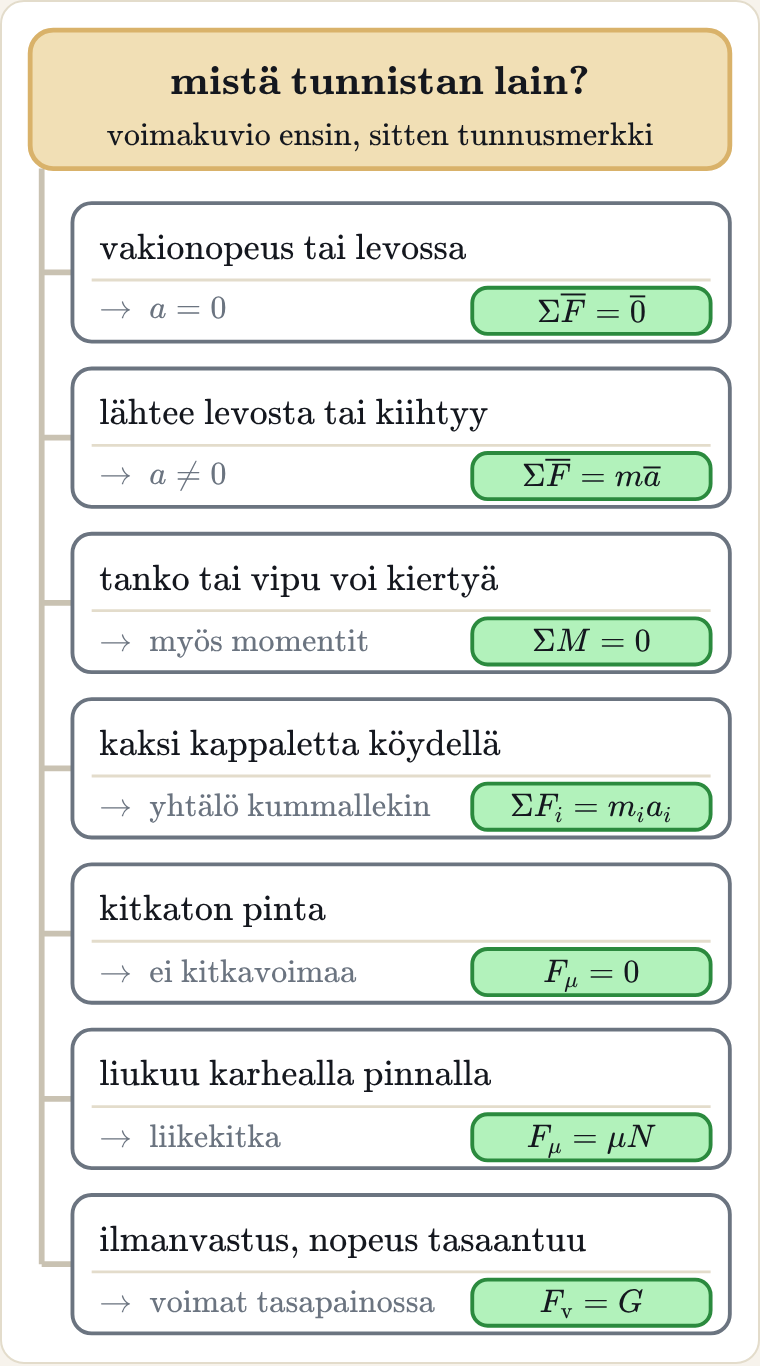
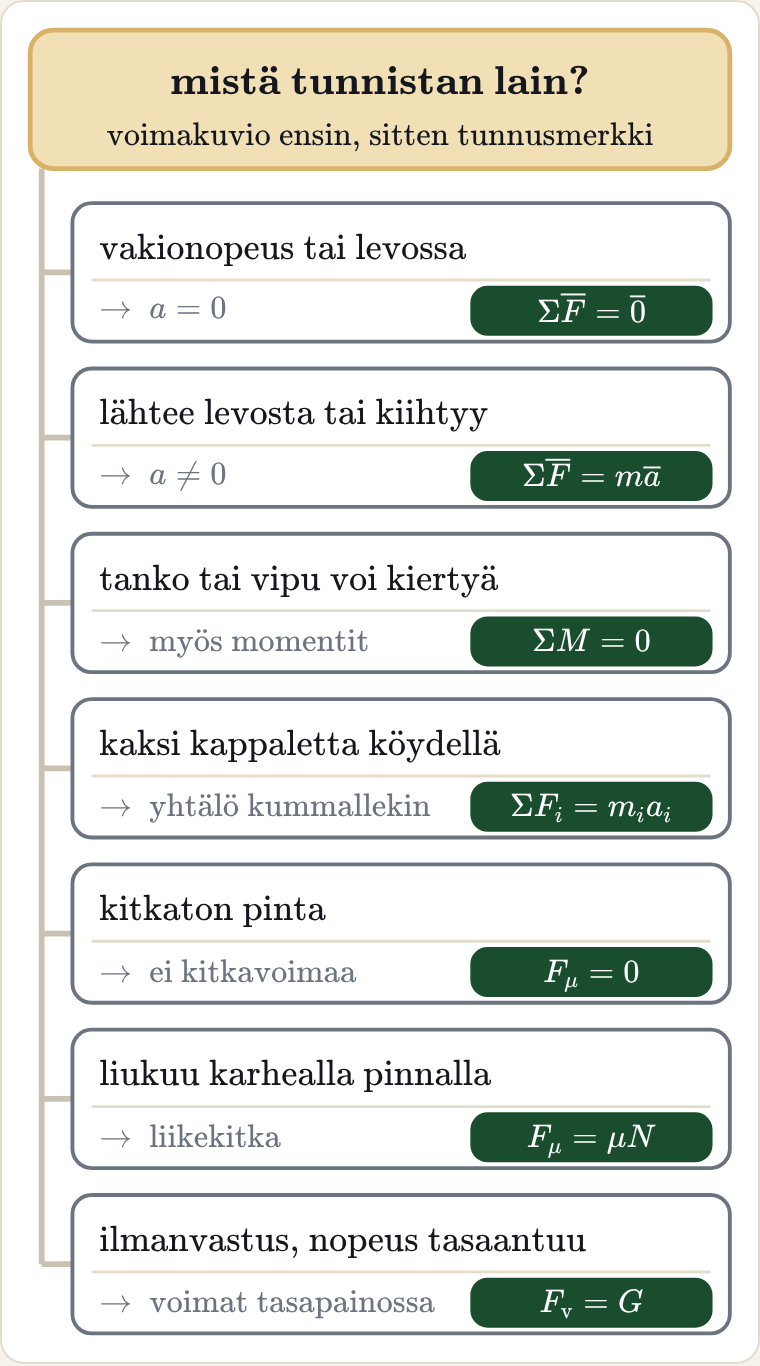
fy9-voimat tunnistuskaavio: lain merkki sivuston tummalla vihreällä (--accent), valkoinen teksti
Claude-Session: https://claude.ai/code/session_018S3zFxhGjNZ7QGsyLUYTSo

diff --git a/fysiikkalabra/lessons/units/fy9-voimat/figures.py b/fysiikkalabra/lessons/units/fy9-voimat/figures.py
@@ -18,6 +18,7 @@ import herolib as H
 
 figlib.set_language({}, ",")
 
+ACCENT = "#1a4d2e"                                        # the site's own dark green (site.css --accent, the buttons)
 WOOD, WOOD_DARK = "#d9b26a", "#a97a35"
 BOX, BOX_EDGE = SAND_LIGHT, WOOD_DARK
 
@@ -72,7 +73,7 @@ def hero():
 def kartta():
     """The recognition chart (teacher 2026-11-15, replaces the concept map): "Mistä tunnistan, mitä lakia käytän?". One
     card per sign in the task's own words (YO language): the sign on top, the choice it leads to and, as the result in a
-    green pill, the law or method; no list of formulas. Stacked for a phone: a spine down the left from the start box."""
+    pill in the site's dark green, the law or method; no list of formulas. Stacked for a phone: a spine down the left from the start box."""
     rows = [
         (r"\text{vakionopeus tai levossa}", r"\to\ a = 0", r"\Sigma\overline{F} = \overline{0}"),
         (r"\text{lähtee levosta tai kiihtyy}", r"\to\ a \neq 0", r"\Sigma\overline{F} = m\overline{a}"),
@@ -96,8 +97,8 @@ def kartta():
         f.tex(x0 + 14, y + 22, sign, "start", INK, size=19, w=x1 - x0 - 28)
         f.line(x0 + 10, y + 40, x1 - 10, y + 40, RULE_LIGHT, 1.5)
         f.tex(x0 + 14, y + 55, choice, "start", MUTED, size=17, w=170)
-        f.rect(x1 - 134, y + 44, 124, 24, GOOD_LIGHT, GOOD, 2, 8)
-        f.tex(x1 - 72, y + 56, law, "middle", INK, size=17, w=116)
+        f.rect(x1 - 134, y + 44, 124, 24, ACCENT, ACCENT, 2, 8)
+        f.tex(x1 - 72, y + 56, law, "middle", WHITE, size=17, w=116)
     return f.svg()
 
 

diff --git a/fysiikkalabra/content/fi-easy/units/fy9-voimat/unit.md b/fysiikkalabra/content/fi-easy/units/fy9-voimat/unit.md
@@ -161,50 +161,50 @@ Kokeessa voimakuviosta menee pisteitä, jos kuviosta puuttuu voima, siinä on yl
   <foreignObject x="44" y="108.5" width="314" height="23" overflow="visible"><div xmlns="http://www.w3.org/1999/xhtml" class="fig-tex" style="display:flex;align-items:center;justify-content:flex-start;height:100%;font-size:19px">$\text{vakionopeus tai levossa}$</div></foreignObject>
   <line x1="40" y1="138" x2="362" y2="138" stroke="#e3dccb" stroke-width="1.5" stroke-linecap="butt"/>
   <foreignObject x="44" y="143" width="170" height="20" overflow="visible"><div xmlns="http://www.w3.org/1999/xhtml" class="fig-tex" style="display:flex;align-items:center;justify-content:flex-start;height:100%;font-size:17px;color:#6b7480">$\to\ a = 0$</div></foreignObject>
-  <rect x="238" y="142" width="124" height="24" rx="8" fill="#b2f2bb" stroke="#2b8a3e" stroke-width="2"/>
-  <foreignObject x="242" y="144" width="116" height="20" overflow="visible"><div xmlns="http://www.w3.org/1999/xhtml" class="fig-tex" style="display:flex;align-items:center;justify-content:center;height:100%;font-size:17px">$\Sigma\overline{F} = \overline{0}$</div></foreignObject>
+  <rect x="238" y="142" width="124" height="24" rx="8" fill="#1a4d2e" stroke="#1a4d2e" stroke-width="2"/>
+  <foreignObject x="242" y="144" width="116" height="20" overflow="visible"><div xmlns="http://www.w3.org/1999/xhtml" class="fig-tex" style="display:flex;align-items:center;justify-content:center;height:100%;font-size:17px;color:#ffffff">$\Sigma\overline{F} = \overline{0}$</div></foreignObject>
   <line x1="14" y1="220" x2="30" y2="220" stroke="#c9c2b2" stroke-width="3" stroke-linecap="butt"/>
   <rect x="30" y="184" width="342" height="72" rx="10" fill="#ffffff" stroke="#6b7480" stroke-width="2"/>
   <foreignObject x="44" y="194.5" width="314" height="23" overflow="visible"><div xmlns="http://www.w3.org/1999/xhtml" class="fig-tex" style="display:flex;align-items:center;justify-content:flex-start;height:100%;font-size:19px">$\text{lähtee levosta tai kiihtyy}$</div></foreignObject>
   <line x1="40" y1="224" x2="362" y2="224" stroke="#e3dccb" stroke-width="1.5" stroke-linecap="butt"/>
   <foreignObject x="44" y="229" width="170" height="20" overflow="visible"><div xmlns="http://www.w3.org/1999/xhtml" class="fig-tex" style="display:flex;align-items:center;justify-content:flex-start;height:100%;font-size:17px;color:#6b7480">$\to\ a \neq 0$</div></foreignObject>
-  <rect x="238" y="228" width="124" height="24" rx="8" fill="#b2f2bb" stroke="#2b8a3e" stroke-width="2"/>
-  <foreignObject x="242" y="230" width="116" height="20" overflow="visible"><div xmlns="http://www.w3.org/1999/xhtml" class="fig-tex" style="display:flex;align-items:center;justify-content:center;height:100%;font-size:17px">$\Sigma\overline{F} = m\overline{a}$</div></foreignObject>
+  <rect x="238" y="228" width="124" height="24" rx="8" fill="#1a4d2e" stroke="#1a4d2e" stroke-width="2"/>
+  <foreignObject x="242" y="230" width="116" height="20" overflow="visible"><div xmlns="http://www.w3.org/1999/xhtml" class="fig-tex" style="display:flex;align-items:center;justify-content:center;height:100%;font-size:17px;color:#ffffff">$\Sigma\overline{F} = m\overline{a}$</div></foreignObject>
   <line x1="14" y1="306" x2="30" y2="306" stroke="#c9c2b2" stroke-width="3" stroke-linecap="butt"/>
   <rect x="30" y="270" width="342" height="72" rx="10" fill="#ffffff" stroke="#6b7480" stroke-width="2"/>
   <foreignObject x="44" y="280.5" width="314" height="23" overflow="visible"><div xmlns="http://www.w3.org/1999/xhtml" class="fig-tex" style="display:flex;align-items:center;justify-content:flex-start;height:100%;font-size:19px">$\text{tanko tai vipu voi kiertyä}$</div></foreignObject>
   <line x1="40" y1="310" x2="362" y2="310" stroke="#e3dccb" stroke-width="1.5" stroke-linecap="butt"/>
   <foreignObject x="44" y="315" width="170" height="20" overflow="visible"><div xmlns="http://www.w3.org/1999/xhtml" class="fig-tex" style="display:flex;align-items:center;justify-content:flex-start;height:100%;font-size:17px;color:#6b7480">$\to\ \text{myös momentit}$</div></foreignObject>
-  <rect x="238" y="314" width="124" height="24" rx="8" fill="#b2f2bb" stroke="#2b8a3e" stroke-width="2"/>
-  <foreignObject x="242" y="316" width="116" height="20" overflow="visible"><div xmlns="http://www.w3.org/1999/xhtml" class="fig-tex" style="display:flex;align-items:center;justify-content:center;height:100%;font-size:17px">$\Sigma M = 0$</div></foreignObject>
+  <rect x="238" y="314" width="124" height="24" rx="8" fill="#1a4d2e" stroke="#1a4d2e" stroke-width="2"/>
+  <foreignObject x="242" y="316" width="116" height="20" overflow="visible"><div xmlns="http://www.w3.org/1999/xhtml" class="fig-tex" style="display:flex;align-items:center;justify-content:center;height:100%;font-size:17px;color:#ffffff">$\Sigma M = 0$</div></foreignObject>
   <line x1="14" y1="392" x2="30" y2="392" stroke="#c9c2b2" stroke-width="3" stroke-linecap="butt"/>
   <rect x="30" y="356" width="342" height="72" rx="10" fill="#ffffff" stroke="#6b7480" stroke-width="2"/>
   <foreignObject x="44" y="366.5" width="314" height="23" overflow="visible"><div xmlns="http://www.w3.org/1999/xhtml" class="fig-tex" style="display:flex;align-items:center;justify-content:flex-start;height:100%;font-size:19px">$\text{kaksi kappaletta köydellä}$</div></foreignObject>
   <line x1="40" y1="396" x2="362" y2="396" stroke="#e3dccb" stroke-width="1.5" stroke-linecap="butt"/>
   <foreignObject x="44" y="401" width="170" height="20" overflow="visible"><div xmlns="http://www.w3.org/1999/xhtml" class="fig-tex" style="display:flex;align-items:center;justify-content:flex-start;height:100%;font-size:17px;color:#6b7480">$\to\ \text{yhtälö kummallekin}$</div></foreignObject>
-  <rect x="238" y="400" width="124" height="24" rx="8" fill="#b2f2bb" stroke="#2b8a3e" stroke-width="2"/>
-  <foreignObject x="242" y="402" width="116" height="20" overflow="visible"><div xmlns="http://www.w3.org/1999/xhtml" class="fig-tex" style="display:flex;align-items:center;justify-content:center;height:100%;font-size:17px">$\Sigma F_i = m_i a_i$</div></foreignObject>
+  <rect x="238" y="400" width="124" height="24" rx="8" fill="#1a4d2e" stroke="#1a4d2e" stroke-width="2"/>
+  <foreignObject x="242" y="402" width="116" height="20" overflow="visible"><div xmlns="http://www.w3.org/1999/xhtml" class="fig-tex" style="display:flex;align-items:center;justify-content:center;height:100%;font-size:17px;color:#ffffff">$\Sigma F_i = m_i a_i$</div></foreignObject>
   <line x1="14" y1="478" x2="30" y2="478" stroke="#c9c2b2" stroke-width="3" stroke-linecap="butt"/>
   <rect x="30" y="442" width="342" height="72" rx="10" fill="#ffffff" stroke="#6b7480" stroke-width="2"/>
   <foreignObject x="44" y="452.5" width="314" height="23" overflow="visible"><div xmlns="http://www.w3.org/1999/xhtml" class="fig-tex" style="display:flex;align-items:center;justify-content:flex-start;height:100%;font-size:19px">$\text{kitkaton pinta}$</div></foreignObject>
   <line x1="40" y1="482" x2="362" y2="482" stroke="#e3dccb" stroke-width="1.5" stroke-linecap="butt"/>
   <foreignObject x="44" y="487" width="170" height="20" overflow="visible"><div xmlns="http://www.w3.org/1999/xhtml" class="fig-tex" style="display:flex;align-items:center;justify-content:flex-start;height:100%;font-size:17px;color:#6b7480">$\to\ \text{ei kitkavoimaa}$</div></foreignObject>
-  <rect x="238" y="486" width="124" height="24" rx="8" fill="#b2f2bb" stroke="#2b8a3e" stroke-width="2"/>
-  <foreignObject x="242" y="488" width="116" height="20" overflow="visible"><div xmlns="http://www.w3.org/1999/xhtml" class="fig-tex" style="display:flex;align-items:center;justify-content:center;height:100%;font-size:17px">$F_\mu = 0$</div></foreignObject>
+  <rect x="238" y="486" width="124" height="24" rx="8" fill="#1a4d2e" stroke="#1a4d2e" stroke-width="2"/>
+  <foreignObject x="242" y="488" width="116" height="20" overflow="visible"><div xmlns="http://www.w3.org/1999/xhtml" class="fig-tex" style="display:flex;align-items:center;justify-content:center;height:100%;font-size:17px;color:#ffffff">$F_\mu = 0$</div></foreignObject>
   <line x1="14" y1="564" x2="30" y2="564" stroke="#c9c2b2" stroke-width="3" stroke-linecap="butt"/>
   <rect x="30" y="528" width="342" height="72" rx="10" fill="#ffffff" stroke="#6b7480" stroke-width="2"/>
   <foreignObject x="44" y="538.5" width="314" height="23" overflow="visible"><div xmlns="http://www.w3.org/1999/xhtml" class="fig-tex" style="display:flex;align-items:center;justify-content:flex-start;height:100%;font-size:19px">$\text{liukuu karhealla pinnalla}$</div></foreignObject>
   <line x1="40" y1="568" x2="362" y2="568" stroke="#e3dccb" stroke-width="1.5" stroke-linecap="butt"/>
   <foreignObject x="44" y="573" width="170" height="20" overflow="visible"><div xmlns="http://www.w3.org/1999/xhtml" class="fig-tex" style="display:flex;align-items:center;justify-content:flex-start;height:100%;font-size:17px;color:#6b7480">$\to\ \text{liikekitka}$</div></foreignObject>
-  <rect x="238" y="572" width="124" height="24" rx="8" fill="#b2f2bb" stroke="#2b8a3e" stroke-width="2"/>
-  <foreignObject x="242" y="574" width="116" height="20" overflow="visible"><div xmlns="http://www.w3.org/1999/xhtml" class="fig-tex" style="display:flex;align-items:center;justify-content:center;height:100%;font-size:17px">$F_\mu = \mu N$</div></foreignObject>
+  <rect x="238" y="572" width="124" height="24" rx="8" fill="#1a4d2e" stroke="#1a4d2e" stroke-width="2"/>
+  <foreignObject x="242" y="574" width="116" height="20" overflow="visible"><div xmlns="http://www.w3.org/1999/xhtml" class="fig-tex" style="display:flex;align-items:center;justify-content:center;height:100%;font-size:17px;color:#ffffff">$F_\mu = \mu N$</div></foreignObject>
   <line x1="14" y1="650" x2="30" y2="650" stroke="#c9c2b2" stroke-width="3" stroke-linecap="butt"/>
   <rect x="30" y="614" width="342" height="72" rx="10" fill="#ffffff" stroke="#6b7480" stroke-width="2"/>
   <foreignObject x="44" y="624.5" width="314" height="23" overflow="visible"><div xmlns="http://www.w3.org/1999/xhtml" class="fig-tex" style="display:flex;align-items:center;justify-content:flex-start;height:100%;font-size:19px">$\text{ilmanvastus, nopeus tasaantuu}$</div></foreignObject>
   <line x1="40" y1="654" x2="362" y2="654" stroke="#e3dccb" stroke-width="1.5" stroke-linecap="butt"/>
   <foreignObject x="44" y="659" width="170" height="20" overflow="visible"><div xmlns="http://www.w3.org/1999/xhtml" class="fig-tex" style="display:flex;align-items:center;justify-content:flex-start;height:100%;font-size:17px;color:#6b7480">$\to\ \text{voimat tasapainossa}$</div></foreignObject>
-  <rect x="238" y="658" width="124" height="24" rx="8" fill="#b2f2bb" stroke="#2b8a3e" stroke-width="2"/>
-  <foreignObject x="242" y="660" width="116" height="20" overflow="visible"><div xmlns="http://www.w3.org/1999/xhtml" class="fig-tex" style="display:flex;align-items:center;justify-content:center;height:100%;font-size:17px">$F_\text{v} = G$</div></foreignObject>
+  <rect x="238" y="658" width="124" height="24" rx="8" fill="#1a4d2e" stroke="#1a4d2e" stroke-width="2"/>
+  <foreignObject x="242" y="660" width="116" height="20" overflow="visible"><div xmlns="http://www.w3.org/1999/xhtml" class="fig-tex" style="display:flex;align-items:center;justify-content:center;height:100%;font-size:17px;color:#ffffff">$F_\text{v} = G$</div></foreignObject>
 </svg>
 
 Alun kysymys ratkeaa, kun valitaan kappale. Auto ja kärry vaikuttavat toisiinsa yhtä suurilla voimilla. Voimat vaikuttavat kuitenkin **eri kappaleisiin**. Siksi ne eivät kumoa toisiaan eli eivät poista toistensa vaikutusta. Kärryn liikkeen ratkaisevat vain ne voimat, jotka vaikuttavat kärryyn. Kun auto kiihdyttää, vetoaisa vetää kärryä eteenpäin enemmän kuin vierimisvastus jarruttaa sitä.

diff --git a/fysiikkalabra/content/en/units/fy9-voimat/unit.md b/fysiikkalabra/content/en/units/fy9-voimat/unit.md
@@ -153,50 +153,50 @@ Every task in this lesson is solved in the same way: **first the free-body diagr
   <foreignObject x="44" y="108.5" width="314" height="23" overflow="visible"><div xmlns="http://www.w3.org/1999/xhtml" class="fig-tex" style="display:flex;align-items:center;justify-content:flex-start;height:100%;font-size:19px">$\text{constant velocity or at rest}$</div></foreignObject>
   <line x1="40" y1="138" x2="362" y2="138" stroke="#e3dccb" stroke-width="1.5" stroke-linecap="butt"/>
   <foreignObject x="44" y="143" width="170" height="20" overflow="visible"><div xmlns="http://www.w3.org/1999/xhtml" class="fig-tex" style="display:flex;align-items:center;justify-content:flex-start;height:100%;font-size:17px;color:#6b7480">$\to\ a = 0$</div></foreignObject>
-  <rect x="238" y="142" width="124" height="24" rx="8" fill="#b2f2bb" stroke="#2b8a3e" stroke-width="2"/>
-  <foreignObject x="242" y="144" width="116" height="20" overflow="visible"><div xmlns="http://www.w3.org/1999/xhtml" class="fig-tex" style="display:flex;align-items:center;justify-content:center;height:100%;font-size:17px">$\Sigma\overline{F} = \overline{0}$</div></foreignObject>
+  <rect x="238" y="142" width="124" height="24" rx="8" fill="#1a4d2e" stroke="#1a4d2e" stroke-width="2"/>
+  <foreignObject x="242" y="144" width="116" height="20" overflow="visible"><div xmlns="http://www.w3.org/1999/xhtml" class="fig-tex" style="display:flex;align-items:center;justify-content:center;height:100%;font-size:17px;color:#ffffff">$\Sigma\overline{F} = \overline{0}$</div></foreignObject>
   <line x1="14" y1="220" x2="30" y2="220" stroke="#c9c2b2" stroke-width="3" stroke-linecap="butt"/>
   <rect x="30" y="184" width="342" height="72" rx="10" fill="#ffffff" stroke="#6b7480" stroke-width="2"/>
   <foreignObject x="44" y="194.5" width="314" height="23" overflow="visible"><div xmlns="http://www.w3.org/1999/xhtml" class="fig-tex" style="display:flex;align-items:center;justify-content:flex-start;height:100%;font-size:19px">$\text{starts from rest or speeds up}$</div></foreignObject>
   <line x1="40" y1="224" x2="362" y2="224" stroke="#e3dccb" stroke-width="1.5" stroke-linecap="butt"/>
   <foreignObject x="44" y="229" width="170" height="20" overflow="visible"><div xmlns="http://www.w3.org/1999/xhtml" class="fig-tex" style="display:flex;align-items:center;justify-content:flex-start;height:100%;font-size:17px;color:#6b7480">$\to\ a \neq 0$</div></foreignObject>
-  <rect x="238" y="228" width="124" height="24" rx="8" fill="#b2f2bb" stroke="#2b8a3e" stroke-width="2"/>
-  <foreignObject x="242" y="230" width="116" height="20" overflow="visible"><div xmlns="http://www.w3.org/1999/xhtml" class="fig-tex" style="display:flex;align-items:center;justify-content:center;height:100%;font-size:17px">$\Sigma\overline{F} = m\overline{a}$</div></foreignObject>
+  <rect x="238" y="228" width="124" height="24" rx="8" fill="#1a4d2e" stroke="#1a4d2e" stroke-width="2"/>
+  <foreignObject x="242" y="230" width="116" height="20" overflow="visible"><div xmlns="http://www.w3.org/1999/xhtml" class="fig-tex" style="display:flex;align-items:center;justify-content:center;height:100%;font-size:17px;color:#ffffff">$\Sigma\overline{F} = m\overline{a}$</div></foreignObject>
   <line x1="14" y1="306" x2="30" y2="306" stroke="#c9c2b2" stroke-width="3" stroke-linecap="butt"/>
   <rect x="30" y="270" width="342" height="72" rx="10" fill="#ffffff" stroke="#6b7480" stroke-width="2"/>
   <foreignObject x="44" y="280.5" width="314" height="23" overflow="visible"><div xmlns="http://www.w3.org/1999/xhtml" class="fig-tex" style="display:flex;align-items:center;justify-content:flex-start;height:100%;font-size:19px">$\text{a rod or lever can rotate}$</div></foreignObject>
   <line x1="40" y1="310" x2="362" y2="310" stroke="#e3dccb" stroke-width="1.5" stroke-linecap="butt"/>
   <foreignObject x="44" y="315" width="170" height="20" overflow="visible"><div xmlns="http://www.w3.org/1999/xhtml" class="fig-tex" style="display:flex;align-items:center;justify-content:flex-start;height:100%;font-size:17px;color:#6b7480">$\to\ \text{moments too}$</div></foreignObject>
-  <rect x="238" y="314" width="124" height="24" rx="8" fill="#b2f2bb" stroke="#2b8a3e" stroke-width="2"/>
-  <foreignObject x="242" y="316" width="116" height="20" overflow="visible"><div xmlns="http://www.w3.org/1999/xhtml" class="fig-tex" style="display:flex;align-items:center;justify-content:center;height:100%;font-size:17px">$\Sigma M = 0$</div></foreignObject>
+  <rect x="238" y="314" width="124" height="24" rx="8" fill="#1a4d2e" stroke="#1a4d2e" stroke-width="2"/>
+  <foreignObject x="242" y="316" width="116" height="20" overflow="visible"><div xmlns="http://www.w3.org/1999/xhtml" class="fig-tex" style="display:flex;align-items:center;justify-content:center;height:100%;font-size:17px;color:#ffffff">$\Sigma M = 0$</div></foreignObject>
   <line x1="14" y1="392" x2="30" y2="392" stroke="#c9c2b2" stroke-width="3" stroke-linecap="butt"/>
   <rect x="30" y="356" width="342" height="72" rx="10" fill="#ffffff" stroke="#6b7480" stroke-width="2"/>
   <foreignObject x="44" y="366.5" width="314" height="23" overflow="visible"><div xmlns="http://www.w3.org/1999/xhtml" class="fig-tex" style="display:flex;align-items:center;justify-content:flex-start;height:100%;font-size:19px">$\text{two bodies on a rope}$</div></foreignObject>
   <line x1="40" y1="396" x2="362" y2="396" stroke="#e3dccb" stroke-width="1.5" stroke-linecap="butt"/>
   <foreignObject x="44" y="401" width="170" height="20" overflow="visible"><div xmlns="http://www.w3.org/1999/xhtml" class="fig-tex" style="display:flex;align-items:center;justify-content:flex-start;height:100%;font-size:17px;color:#6b7480">$\to\ \text{an equation each}$</div></foreignObject>
-  <rect x="238" y="400" width="124" height="24" rx="8" fill="#b2f2bb" stroke="#2b8a3e" stroke-width="2"/>
-  <foreignObject x="242" y="402" width="116" height="20" overflow="visible"><div xmlns="http://www.w3.org/1999/xhtml" class="fig-tex" style="display:flex;align-items:center;justify-content:center;height:100%;font-size:17px">$\Sigma F_i = m_i a_i$</div></foreignObject>
+  <rect x="238" y="400" width="124" height="24" rx="8" fill="#1a4d2e" stroke="#1a4d2e" stroke-width="2"/>
+  <foreignObject x="242" y="402" width="116" height="20" overflow="visible"><div xmlns="http://www.w3.org/1999/xhtml" class="fig-tex" style="display:flex;align-items:center;justify-content:center;height:100%;font-size:17px;color:#ffffff">$\Sigma F_i = m_i a_i$</div></foreignObject>
   <line x1="14" y1="478" x2="30" y2="478" stroke="#c9c2b2" stroke-width="3" stroke-linecap="butt"/>
   <rect x="30" y="442" width="342" height="72" rx="10" fill="#ffffff" stroke="#6b7480" stroke-width="2"/>
   <foreignObject x="44" y="452.5" width="314" height="23" overflow="visible"><div xmlns="http://www.w3.org/1999/xhtml" class="fig-tex" style="display:flex;align-items:center;justify-content:flex-start;height:100%;font-size:19px">$\text{frictionless surface}$</div></foreignObject>
   <line x1="40" y1="482" x2="362" y2="482" stroke="#e3dccb" stroke-width="1.5" stroke-linecap="butt"/>
   <foreignObject x="44" y="487" width="170" height="20" overflow="visible"><div xmlns="http://www.w3.org/1999/xhtml" class="fig-tex" style="display:flex;align-items:center;justify-content:flex-start;height:100%;font-size:17px;color:#6b7480">$\to\ \text{no friction force}$</div></foreignObject>
-  <rect x="238" y="486" width="124" height="24" rx="8" fill="#b2f2bb" stroke="#2b8a3e" stroke-width="2"/>
-  <foreignObject x="242" y="488" width="116" height="20" overflow="visible"><div xmlns="http://www.w3.org/1999/xhtml" class="fig-tex" style="display:flex;align-items:center;justify-content:center;height:100%;font-size:17px">$F_\mu = 0$</div></foreignObject>
+  <rect x="238" y="486" width="124" height="24" rx="8" fill="#1a4d2e" stroke="#1a4d2e" stroke-width="2"/>
+  <foreignObject x="242" y="488" width="116" height="20" overflow="visible"><div xmlns="http://www.w3.org/1999/xhtml" class="fig-tex" style="display:flex;align-items:center;justify-content:center;height:100%;font-size:17px;color:#ffffff">$F_\mu = 0$</div></foreignObject>
   <line x1="14" y1="564" x2="30" y2="564" stroke="#c9c2b2" stroke-width="3" stroke-linecap="butt"/>
   <rect x="30" y="528" width="342" height="72" rx="10" fill="#ffffff" stroke="#6b7480" stroke-width="2"/>
   <foreignObject x="44" y="538.5" width="314" height="23" overflow="visible"><div xmlns="http://www.w3.org/1999/xhtml" class="fig-tex" style="display:flex;align-items:center;justify-content:flex-start;height:100%;font-size:19px">$\text{slides on a rough surface}$</div></foreignObject>
   <line x1="40" y1="568" x2="362" y2="568" stroke="#e3dccb" stroke-width="1.5" stroke-linecap="butt"/>
   <foreignObject x="44" y="573" width="170" height="20" overflow="visible"><div xmlns="http://www.w3.org/1999/xhtml" class="fig-tex" style="display:flex;align-items:center;justify-content:flex-start;height:100%;font-size:17px;color:#6b7480">$\to\ \text{kinetic friction}$</div></foreignObject>
-  <rect x="238" y="572" width="124" height="24" rx="8" fill="#b2f2bb" stroke="#2b8a3e" stroke-width="2"/>
-  <foreignObject x="242" y="574" width="116" height="20" overflow="visible"><div xmlns="http://www.w3.org/1999/xhtml" class="fig-tex" style="display:flex;align-items:center;justify-content:center;height:100%;font-size:17px">$F_\mu = \mu N$</div></foreignObject>
+  <rect x="238" y="572" width="124" height="24" rx="8" fill="#1a4d2e" stroke="#1a4d2e" stroke-width="2"/>
+  <foreignObject x="242" y="574" width="116" height="20" overflow="visible"><div xmlns="http://www.w3.org/1999/xhtml" class="fig-tex" style="display:flex;align-items:center;justify-content:center;height:100%;font-size:17px;color:#ffffff">$F_\mu = \mu N$</div></foreignObject>
   <line x1="14" y1="650" x2="30" y2="650" stroke="#c9c2b2" stroke-width="3" stroke-linecap="butt"/>
   <rect x="30" y="614" width="342" height="72" rx="10" fill="#ffffff" stroke="#6b7480" stroke-width="2"/>
   <foreignObject x="44" y="624.5" width="314" height="23" overflow="visible"><div xmlns="http://www.w3.org/1999/xhtml" class="fig-tex" style="display:flex;align-items:center;justify-content:flex-start;height:100%;font-size:19px">$\text{air resistance, speed levels off}$</div></foreignObject>
   <line x1="40" y1="654" x2="362" y2="654" stroke="#e3dccb" stroke-width="1.5" stroke-linecap="butt"/>
   <foreignObject x="44" y="659" width="170" height="20" overflow="visible"><div xmlns="http://www.w3.org/1999/xhtml" class="fig-tex" style="display:flex;align-items:center;justify-content:flex-start;height:100%;font-size:17px;color:#6b7480">$\to\ \text{forces balance}$</div></foreignObject>
-  <rect x="238" y="658" width="124" height="24" rx="8" fill="#b2f2bb" stroke="#2b8a3e" stroke-width="2"/>
-  <foreignObject x="242" y="660" width="116" height="20" overflow="visible"><div xmlns="http://www.w3.org/1999/xhtml" class="fig-tex" style="display:flex;align-items:center;justify-content:center;height:100%;font-size:17px">$F_\text{v} = G$</div></foreignObject>
+  <rect x="238" y="658" width="124" height="24" rx="8" fill="#1a4d2e" stroke="#1a4d2e" stroke-width="2"/>
+  <foreignObject x="242" y="660" width="116" height="20" overflow="visible"><div xmlns="http://www.w3.org/1999/xhtml" class="fig-tex" style="display:flex;align-items:center;justify-content:center;height:100%;font-size:17px;color:#ffffff">$F_\text{v} = G$</div></foreignObject>
 </svg>
 
 The opening question is settled by the choice of object. The car and the trailer act on each other with equal forces, but the forces act on **different objects**, so they do not cancel each other. The motion of the trailer is decided only by the forces acting on the trailer: while accelerating, the drawbar pulls it forwards more than the rolling resistance holds it back.

diff --git a/fysiikkalabra/content/fi/units/fy9-voimat/unit.md b/fysiikkalabra/content/fi/units/fy9-voimat/unit.md
@@ -153,50 +153,50 @@ Kaikki tämän tunnin tehtävät ratkaistaan samalla tavalla: **ensin voimakuvio
   <foreignObject x="44" y="108.5" width="314" height="23" overflow="visible"><div xmlns="http://www.w3.org/1999/xhtml" class="fig-tex" style="display:flex;align-items:center;justify-content:flex-start;height:100%;font-size:19px">$\text{vakionopeus tai levossa}$</div></foreignObject>
   <line x1="40" y1="138" x2="362" y2="138" stroke="#e3dccb" stroke-width="1.5" stroke-linecap="butt"/>
   <foreignObject x="44" y="143" width="170" height="20" overflow="visible"><div xmlns="http://www.w3.org/1999/xhtml" class="fig-tex" style="display:flex;align-items:center;justify-content:flex-start;height:100%;font-size:17px;color:#6b7480">$\to\ a = 0$</div></foreignObject>
-  <rect x="238" y="142" width="124" height="24" rx="8" fill="#b2f2bb" stroke="#2b8a3e" stroke-width="2"/>
-  <foreignObject x="242" y="144" width="116" height="20" overflow="visible"><div xmlns="http://www.w3.org/1999/xhtml" class="fig-tex" style="display:flex;align-items:center;justify-content:center;height:100%;font-size:17px">$\Sigma\overline{F} = \overline{0}$</div></foreignObject>
+  <rect x="238" y="142" width="124" height="24" rx="8" fill="#1a4d2e" stroke="#1a4d2e" stroke-width="2"/>
+  <foreignObject x="242" y="144" width="116" height="20" overflow="visible"><div xmlns="http://www.w3.org/1999/xhtml" class="fig-tex" style="display:flex;align-items:center;justify-content:center;height:100%;font-size:17px;color:#ffffff">$\Sigma\overline{F} = \overline{0}$</div></foreignObject>
   <line x1="14" y1="220" x2="30" y2="220" stroke="#c9c2b2" stroke-width="3" stroke-linecap="butt"/>
   <rect x="30" y="184" width="342" height="72" rx="10" fill="#ffffff" stroke="#6b7480" stroke-width="2"/>
   <foreignObject x="44" y="194.5" width="314" height="23" overflow="visible"><div xmlns="http://www.w3.org/1999/xhtml" class="fig-tex" style="display:flex;align-items:center;justify-content:flex-start;height:100%;font-size:19px">$\text{lähtee levosta tai kiihtyy}$</div></foreignObject>
   <line x1="40" y1="224" x2="362" y2="224" stroke="#e3dccb" stroke-width="1.5" stroke-linecap="butt"/>
   <foreignObject x="44" y="229" width="170" height="20" overflow="visible"><div xmlns="http://www.w3.org/1999/xhtml" class="fig-tex" style="display:flex;align-items:center;justify-content:flex-start;height:100%;font-size:17px;color:#6b7480">$\to\ a \neq 0$</div></foreignObject>
-  <rect x="238" y="228" width="124" height="24" rx="8" fill="#b2f2bb" stroke="#2b8a3e" stroke-width="2"/>
-  <foreignObject x="242" y="230" width="116" height="20" overflow="visible"><div xmlns="http://www.w3.org/1999/xhtml" class="fig-tex" style="display:flex;align-items:center;justify-content:center;height:100%;font-size:17px">$\Sigma\overline{F} = m\overline{a}$</div></foreignObject>
+  <rect x="238" y="228" width="124" height="24" rx="8" fill="#1a4d2e" stroke="#1a4d2e" stroke-width="2"/>
+  <foreignObject x="242" y="230" width="116" height="20" overflow="visible"><div xmlns="http://www.w3.org/1999/xhtml" class="fig-tex" style="display:flex;align-items:center;justify-content:center;height:100%;font-size:17px;color:#ffffff">$\Sigma\overline{F} = m\overline{a}$</div></foreignObject>
   <line x1="14" y1="306" x2="30" y2="306" stroke="#c9c2b2" stroke-width="3" stroke-linecap="butt"/>
   <rect x="30" y="270" width="342" height="72" rx="10" fill="#ffffff" stroke="#6b7480" stroke-width="2"/>
   <foreignObject x="44" y="280.5" width="314" height="23" overflow="visible"><div xmlns="http://www.w3.org/1999/xhtml" class="fig-tex" style="display:flex;align-items:center;justify-content:flex-start;height:100%;font-size:19px">$\text{tanko tai vipu voi kiertyä}$</div></foreignObject>
   <line x1="40" y1="310" x2="362" y2="310" stroke="#e3dccb" stroke-width="1.5" stroke-linecap="butt"/>
   <foreignObject x="44" y="315" width="170" height="20" overflow="visible"><div xmlns="http://www.w3.org/1999/xhtml" class="fig-tex" style="display:flex;align-items:center;justify-content:flex-start;height:100%;font-size:17px;color:#6b7480">$\to\ \text{myös momentit}$</div></foreignObject>
-  <rect x="238" y="314" width="124" height="24" rx="8" fill="#b2f2bb" stroke="#2b8a3e" stroke-width="2"/>
-  <foreignObject x="242" y="316" width="116" height="20" overflow="visible"><div xmlns="http://www.w3.org/1999/xhtml" class="fig-tex" style="display:flex;align-items:center;justify-content:center;height:100%;font-size:17px">$\Sigma M = 0$</div></foreignObject>
+  <rect x="238" y="314" width="124" height="24" rx="8" fill="#1a4d2e" stroke="#1a4d2e" stroke-width="2"/>
+  <foreignObject x="242" y="316" width="116" height="20" overflow="visible"><div xmlns="http://www.w3.org/1999/xhtml" class="fig-tex" style="display:flex;align-items:center;justify-content:center;height:100%;font-size:17px;color:#ffffff">$\Sigma M = 0$</div></foreignObject>
   <line x1="14" y1="392" x2="30" y2="392" stroke="#c9c2b2" stroke-width="3" stroke-linecap="butt"/>
   <rect x="30" y="356" width="342" height="72" rx="10" fill="#ffffff" stroke="#6b7480" stroke-width="2"/>
   <foreignObject x="44" y="366.5" width="314" height="23" overflow="visible"><div xmlns="http://www.w3.org/1999/xhtml" class="fig-tex" style="display:flex;align-items:center;justify-content:flex-start;height:100%;font-size:19px">$\text{kaksi kappaletta köydellä}$</div></foreignObject>
   <line x1="40" y1="396" x2="362" y2="396" stroke="#e3dccb" stroke-width="1.5" stroke-linecap="butt"/>
   <foreignObject x="44" y="401" width="170" height="20" overflow="visible"><div xmlns="http://www.w3.org/1999/xhtml" class="fig-tex" style="display:flex;align-items:center;justify-content:flex-start;height:100%;font-size:17px;color:#6b7480">$\to\ \text{yhtälö kummallekin}$</div></foreignObject>
-  <rect x="238" y="400" width="124" height="24" rx="8" fill="#b2f2bb" stroke="#2b8a3e" stroke-width="2"/>
-  <foreignObject x="242" y="402" width="116" height="20" overflow="visible"><div xmlns="http://www.w3.org/1999/xhtml" class="fig-tex" style="display:flex;align-items:center;justify-content:center;height:100%;font-size:17px">$\Sigma F_i = m_i a_i$</div></foreignObject>
+  <rect x="238" y="400" width="124" height="24" rx="8" fill="#1a4d2e" stroke="#1a4d2e" stroke-width="2"/>
+  <foreignObject x="242" y="402" width="116" height="20" overflow="visible"><div xmlns="http://www.w3.org/1999/xhtml" class="fig-tex" style="display:flex;align-items:center;justify-content:center;height:100%;font-size:17px;color:#ffffff">$\Sigma F_i = m_i a_i$</div></foreignObject>
   <line x1="14" y1="478" x2="30" y2="478" stroke="#c9c2b2" stroke-width="3" stroke-linecap="butt"/>
   <rect x="30" y="442" width="342" height="72" rx="10" fill="#ffffff" stroke="#6b7480" stroke-width="2"/>
   <foreignObject x="44" y="452.5" width="314" height="23" overflow="visible"><div xmlns="http://www.w3.org/1999/xhtml" class="fig-tex" style="display:flex;align-items:center;justify-content:flex-start;height:100%;font-size:19px">$\text{kitkaton pinta}$</div></foreignObject>
   <line x1="40" y1="482" x2="362" y2="482" stroke="#e3dccb" stroke-width="1.5" stroke-linecap="butt"/>
   <foreignObject x="44" y="487" width="170" height="20" overflow="visible"><div xmlns="http://www.w3.org/1999/xhtml" class="fig-tex" style="display:flex;align-items:center;justify-content:flex-start;height:100%;font-size:17px;color:#6b7480">$\to\ \text{ei kitkavoimaa}$</div></foreignObject>
-  <rect x="238" y="486" width="124" height="24" rx="8" fill="#b2f2bb" stroke="#2b8a3e" stroke-width="2"/>
-  <foreignObject x="242" y="488" width="116" height="20" overflow="visible"><div xmlns="http://www.w3.org/1999/xhtml" class="fig-tex" style="display:flex;align-items:center;justify-content:center;height:100%;font-size:17px">$F_\mu = 0$</div></foreignObject>
+  <rect x="238" y="486" width="124" height="24" rx="8" fill="#1a4d2e" stroke="#1a4d2e" stroke-width="2"/>
+  <foreignObject x="242" y="488" width="116" height="20" overflow="visible"><div xmlns="http://www.w3.org/1999/xhtml" class="fig-tex" style="display:flex;align-items:center;justify-content:center;height:100%;font-size:17px;color:#ffffff">$F_\mu = 0$</div></foreignObject>
   <line x1="14" y1="564" x2="30" y2="564" stroke="#c9c2b2" stroke-width="3" stroke-linecap="butt"/>
   <rect x="30" y="528" width="342" height="72" rx="10" fill="#ffffff" stroke="#6b7480" stroke-width="2"/>
   <foreignObject x="44" y="538.5" width="314" height="23" overflow="visible"><div xmlns="http://www.w3.org/1999/xhtml" class="fig-tex" style="display:flex;align-items:center;justify-content:flex-start;height:100%;font-size:19px">$\text{liukuu karhealla pinnalla}$</div></foreignObject>
   <line x1="40" y1="568" x2="362" y2="568" stroke="#e3dccb" stroke-width="1.5" stroke-linecap="butt"/>
   <foreignObject x="44" y="573" width="170" height="20" overflow="visible"><div xmlns="http://www.w3.org/1999/xhtml" class="fig-tex" style="display:flex;align-items:center;justify-content:flex-start;height:100%;font-size:17px;color:#6b7480">$\to\ \text{liikekitka}$</div></foreignObject>
-  <rect x="238" y="572" width="124" height="24" rx="8" fill="#b2f2bb" stroke="#2b8a3e" stroke-width="2"/>
-  <foreignObject x="242" y="574" width="116" height="20" overflow="visible"><div xmlns="http://www.w3.org/1999/xhtml" class="fig-tex" style="display:flex;align-items:center;justify-content:center;height:100%;font-size:17px">$F_\mu = \mu N$</div></foreignObject>
+  <rect x="238" y="572" width="124" height="24" rx="8" fill="#1a4d2e" stroke="#1a4d2e" stroke-width="2"/>
+  <foreignObject x="242" y="574" width="116" height="20" overflow="visible"><div xmlns="http://www.w3.org/1999/xhtml" class="fig-tex" style="display:flex;align-items:center;justify-content:center;height:100%;font-size:17px;color:#ffffff">$F_\mu = \mu N$</div></foreignObject>
   <line x1="14" y1="650" x2="30" y2="650" stroke="#c9c2b2" stroke-width="3" stroke-linecap="butt"/>
   <rect x="30" y="614" width="342" height="72" rx="10" fill="#ffffff" stroke="#6b7480" stroke-width="2"/>
   <foreignObject x="44" y="624.5" width="314" height="23" overflow="visible"><div xmlns="http://www.w3.org/1999/xhtml" class="fig-tex" style="display:flex;align-items:center;justify-content:flex-start;height:100%;font-size:19px">$\text{ilmanvastus, nopeus tasaantuu}$</div></foreignObject>
   <line x1="40" y1="654" x2="362" y2="654" stroke="#e3dccb" stroke-width="1.5" stroke-linecap="butt"/>
   <foreignObject x="44" y="659" width="170" height="20" overflow="visible"><div xmlns="http://www.w3.org/1999/xhtml" class="fig-tex" style="display:flex;align-items:center;justify-content:flex-start;height:100%;font-size:17px;color:#6b7480">$\to\ \text{voimat tasapainossa}$</div></foreignObject>
-  <rect x="238" y="658" width="124" height="24" rx="8" fill="#b2f2bb" stroke="#2b8a3e" stroke-width="2"/>
-  <foreignObject x="242" y="660" width="116" height="20" overflow="visible"><div xmlns="http://www.w3.org/1999/xhtml" class="fig-tex" style="display:flex;align-items:center;justify-content:center;height:100%;font-size:17px">$F_\text{v} = G$</div></foreignObject>
+  <rect x="238" y="658" width="124" height="24" rx="8" fill="#1a4d2e" stroke="#1a4d2e" stroke-width="2"/>
+  <foreignObject x="242" y="660" width="116" height="20" overflow="visible"><div xmlns="http://www.w3.org/1999/xhtml" class="fig-tex" style="display:flex;align-items:center;justify-content:center;height:100%;font-size:17px;color:#ffffff">$F_\text{v} = G$</div></foreignObject>
 </svg>
 
 Alun kysymyksen ratkaisee kappaleen valinta. Auto ja kärry vaikuttavat toisiinsa yhtä suurilla voimilla, mutta voimat vaikuttavat **eri kappaleisiin**, joten ne eivät kumoa toisiaan. Kärryn liikkeen ratkaisevat vain kärryyn vaikuttavat voimat: kiihdytettäessä vetoaisa vetää sitä eteenpäin enemmän kuin vierimisvastus jarruttaa.
